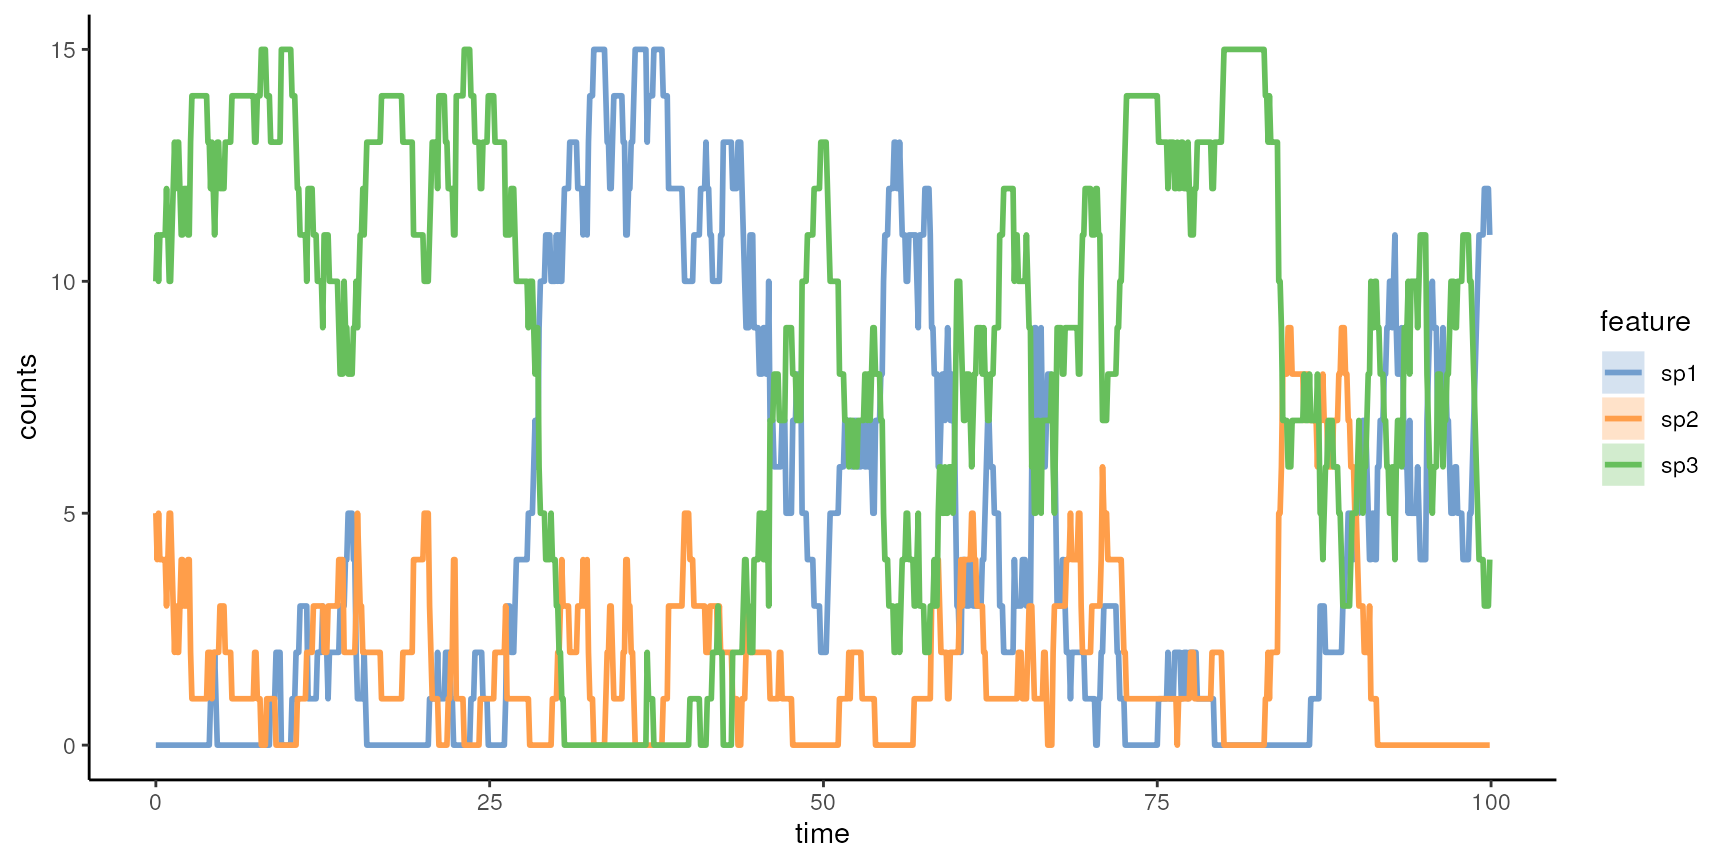
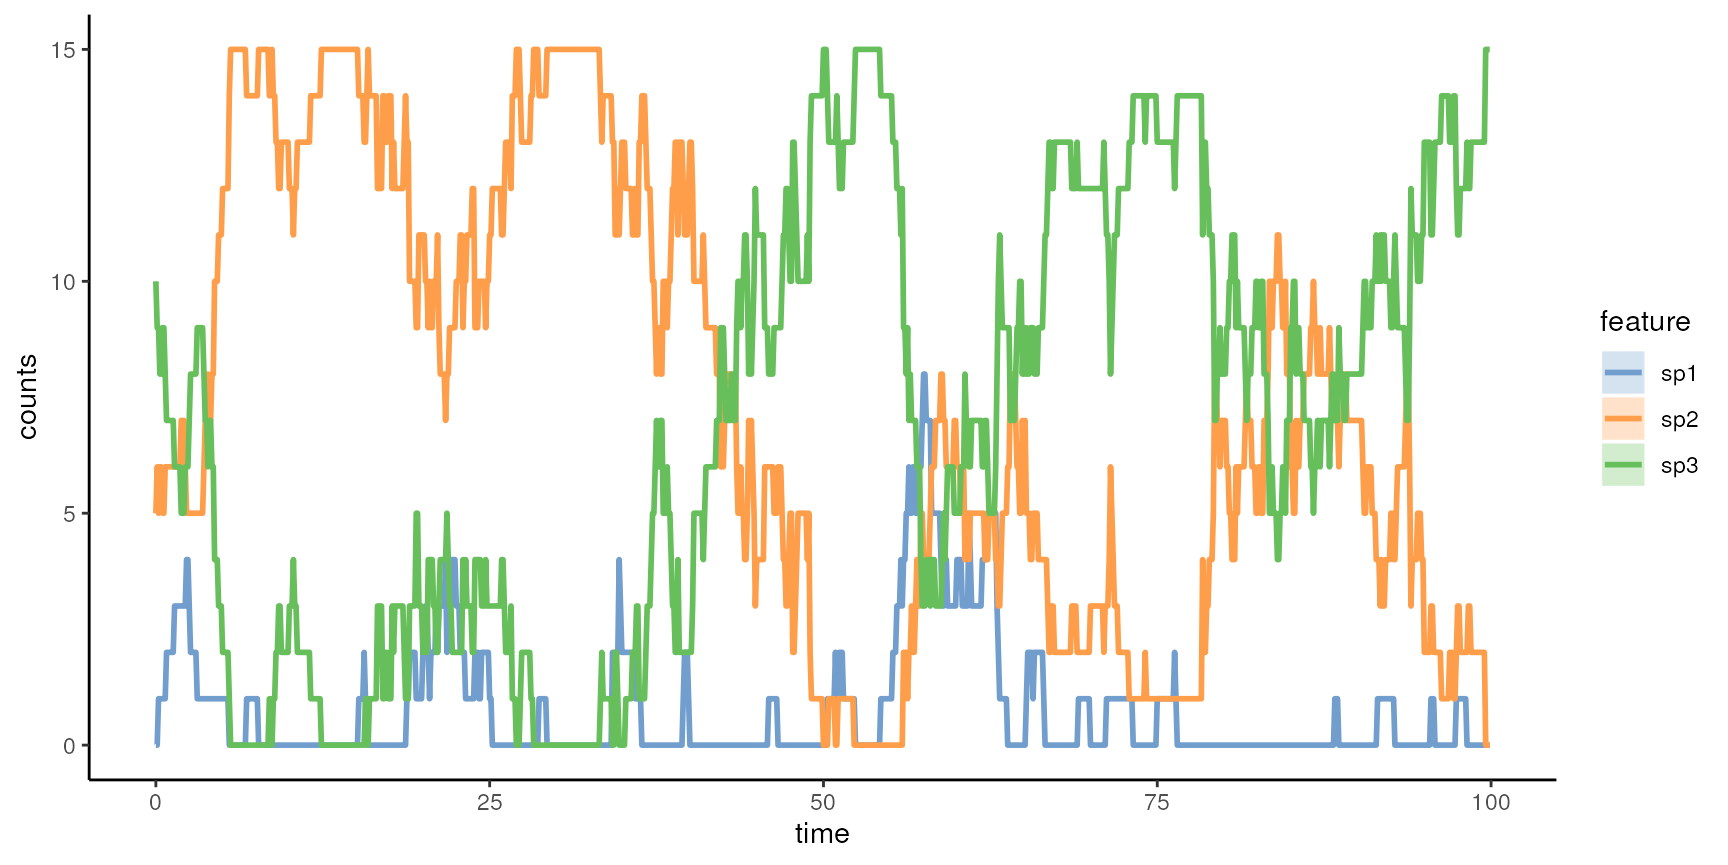
Built site for miaSim: 1.5.4@ab348aa

Changed region(s): [[0.0625, 0.0312, 0.875, 0.874]]

diff --git a/articles/caseStudy2-NutrientThreshold.html b/articles/caseStudy2-NutrientThreshold.html
@@ -88,7 +88,7 @@
                         <h4 data-toc-skip class="author">The miaSim
 package authors.</h4>
             
-            <h4 data-toc-skip class="date">2023-03-14</h4>
+            <h4 data-toc-skip class="date">2023-03-19</h4>
       
       <small class="dont-index">Source: <a href="https://github.com/microbiome/miaSim/blob/HEAD/vignettes/caseStudy2-NutrientThreshold.Rmd" class="external-link"><code>vignettes/caseStudy2-NutrientThreshold.Rmd</code></a></small>
       <div class="hidden name"><code>caseStudy2-NutrientThreshold.Rmd</code></div>
@@ -325,29 +325,29 @@ equivalents.</p>
 <span><span class="co">## In this step, the final relative abundance table is basisComposition_prop</span></span>
 <span></span>
 <span><span class="fu"><a href="https://rdrr.io/r/base/Random.html" class="external-link">set.seed</a></span><span class="op">(</span><span class="fl">42</span><span class="op">)</span></span>
-<span><span class="va">community.simulation</span> <span class="op">&lt;-</span> <span class="fu"><a href="https://rdrr.io/r/base/list.html" class="external-link">list</a></span><span class="op">(</span><span class="op">)</span></span>
-<span><span class="va">counter_i</span> <span class="op">&lt;-</span> <span class="fl">1</span></span>
 <span><span class="va">resourceConcentration</span> <span class="op">&lt;-</span> <span class="fl">10</span><span class="op">^</span><span class="fu"><a href="https://rdrr.io/r/base/seq.html" class="external-link">seq</a></span><span class="op">(</span><span class="fl">0</span>,<span class="fl">4</span>,<span class="fl">1</span><span class="op">)</span> <span class="co"># 1 to 10000</span></span>
 <span><span class="va">n.medium</span> <span class="op">&lt;-</span> <span class="fl">5</span></span>
-<span><span class="kw">for</span> <span class="op">(</span><span class="va">resConc</span> <span class="kw">in</span> <span class="va">resourceConcentration</span><span class="op">)</span> <span class="op">{</span></span>
-<span>    <span class="kw">for</span> <span class="op">(</span><span class="va">medium</span> <span class="kw">in</span> <span class="fu"><a href="https://rdrr.io/r/base/seq.html" class="external-link">seq_len</a></span><span class="op">(</span><span class="va">n.medium</span><span class="op">)</span><span class="op">)</span><span class="op">{</span></span>
+<span></span>
+<span><span class="co"># make use of parallel computing provided by package `foreach`</span></span>
+<span><span class="kw"><a href="https://rdrr.io/r/base/library.html" class="external-link">library</a></span><span class="op">(</span><span class="va"><a href="https://github.com/RevolutionAnalytics/foreach" class="external-link">foreach</a></span><span class="op">)</span></span>
+<span><span class="kw"><a href="https://rdrr.io/r/base/library.html" class="external-link">library</a></span><span class="op">(</span><span class="va"><a href="https://github.com/RevolutionAnalytics/doparallel" class="external-link">doParallel</a></span><span class="op">)</span></span>
+<span><span class="va">cl</span> <span class="op">&lt;-</span> <span class="fu">makeCluster</span><span class="op">(</span><span class="fu"><a href="https://rdrr.io/r/base/Extremes.html" class="external-link">max</a></span><span class="op">(</span><span class="fu">detectCores</span><span class="op">(</span><span class="op">)</span><span class="op">/</span><span class="fl">2</span>, <span class="fl">1</span><span class="op">)</span><span class="op">)</span></span>
+<span><span class="fu">registerDoParallel</span><span class="op">(</span><span class="va">cl</span><span class="op">)</span></span>
+<span><span class="va">basisComposition</span> <span class="op">&lt;-</span> <span class="fu">foreach</span><span class="op">(</span>resConc <span class="op">=</span> <span class="va">resourceConcentration</span>, .combine <span class="op">=</span> <span class="va">rbind</span><span class="op">)</span> <span class="op">%:%</span> </span>
+<span>    <span class="fu">foreach</span><span class="op">(</span>medium <span class="op">=</span> <span class="fu"><a href="https://rdrr.io/r/base/seq.html" class="external-link">seq_len</a></span><span class="op">(</span><span class="va">n.medium</span><span class="op">)</span>, .combine <span class="op">=</span> <span class="va">rbind</span>, .packages <span class="op">=</span> <span class="st">"miaSim"</span><span class="op">)</span> <span class="op">%dopar%</span> <span class="op">{</span></span>
 <span>        <span class="va">crm_params</span><span class="op">$</span><span class="va">resources</span> <span class="op">&lt;-</span> <span class="fu"><a href="https://rdrr.io/r/base/numeric.html" class="external-link">as.numeric</a></span><span class="op">(</span><span class="va">resource.initial.df</span><span class="op">[</span><span class="va">medium</span>,<span class="op">]</span><span class="op">*</span><span class="va">resConc</span><span class="op">)</span></span>
 <span>        <span class="va">paramx0</span> <span class="op">&lt;-</span> <span class="fu"><a href="https://rdrr.io/r/base/list.html" class="external-link">as.list</a></span><span class="op">(</span><span class="fu"><a href="https://rdrr.io/r/base/as.data.frame.html" class="external-link">as.data.frame</a></span><span class="op">(</span><span class="fu"><a href="https://rdrr.io/r/base/t.html" class="external-link">t</a></span><span class="op">(</span><span class="va">community.initial.df</span><span class="op">)</span><span class="op">)</span><span class="op">)</span></span>
 <span>        <span class="va">crm_param_iter</span> <span class="op">&lt;-</span> <span class="fu"><a href="https://rdrr.io/r/base/list.html" class="external-link">list</a></span><span class="op">(</span>x0 <span class="op">=</span> <span class="va">paramx0</span><span class="op">)</span></span>
 <span>        <span class="fu"><a href="https://rdrr.io/r/base/print.html" class="external-link">print</a></span><span class="op">(</span><span class="fu"><a href="https://rdrr.io/r/base/paste.html" class="external-link">paste</a></span><span class="op">(</span><span class="st">"resConc"</span>, <span class="va">resConc</span>, <span class="st">"medium"</span>, <span class="va">medium</span><span class="op">)</span><span class="op">)</span></span>
-<span>        <span class="va">crmMoments</span> <span class="op">&lt;-</span> <span class="fu">generateSimulations</span><span class="op">(</span>model <span class="op">=</span> <span class="st">"simulateConsumerResource"</span>,</span>
-<span>                                          params_list <span class="op">=</span> <span class="va">crm_params</span>,</span>
-<span>                                          param_iter <span class="op">=</span> <span class="va">crm_param_iter</span>,</span>
-<span>                                          n_instances <span class="op">=</span> <span class="va">n.instances</span>,</span>
-<span>                                          t_end <span class="op">=</span> <span class="fl">50</span><span class="op">)</span></span>
+<span>        <span class="va">crmMoments</span> <span class="op">&lt;-</span> <span class="fu"><a href="../reference/dot-generateSimulations.html">.generateSimulations</a></span><span class="op">(</span>model <span class="op">=</span> <span class="st">"simulateConsumerResource"</span>,</span>
+<span>                                           params_list <span class="op">=</span> <span class="va">crm_params</span>,</span>
+<span>                                           param_iter <span class="op">=</span> <span class="va">crm_param_iter</span>,</span>
+<span>                                           n_instances <span class="op">=</span> <span class="va">n.instances</span>,</span>
+<span>                                           t_end <span class="op">=</span> <span class="fl">50</span><span class="op">)</span></span>
 <span>        <span class="co"># pick community composition at the last time point       </span></span>
-<span>        <span class="va">community.simulation</span><span class="op">[[</span><span class="va">counter_i</span><span class="op">]</span><span class="op">]</span> <span class="op">&lt;-</span> <span class="fu"><a href="https://rdrr.io/r/base/as.data.frame.html" class="external-link">as.data.frame</a></span><span class="op">(</span><span class="fu"><a href="https://rdrr.io/r/base/do.call.html" class="external-link">do.call</a></span><span class="op">(</span><span class="va">rbind</span>, <span class="fu"><a href="https://rdrr.io/r/base/lapply.html" class="external-link">lapply</a></span><span class="op">(</span><span class="va">crmMoments</span>, <span class="kw">function</span> <span class="op">(</span><span class="va">x</span><span class="op">)</span> <span class="op">{</span><span class="fu"><a href="https://rdrr.io/pkg/SummarizedExperiment/man/SummarizedExperiment-class.html" class="external-link">assay</a></span><span class="op">(</span><span class="va">x</span>, <span class="st">"counts"</span><span class="op">)</span><span class="op">[</span>, <span class="fu"><a href="https://rdrr.io/r/base/nrow.html" class="external-link">ncol</a></span><span class="op">(</span><span class="va">x</span><span class="op">)</span><span class="op">]</span><span class="op">}</span><span class="op">)</span><span class="op">)</span><span class="op">)</span></span>
-<span></span>
-<span>        <span class="va">counter_i</span> <span class="op">&lt;-</span> <span class="va">counter_i</span> <span class="op">+</span> <span class="fl">1</span></span>
+<span>        <span class="fu"><a href="https://rdrr.io/r/base/as.data.frame.html" class="external-link">as.data.frame</a></span><span class="op">(</span><span class="fu"><a href="https://rdrr.io/r/base/do.call.html" class="external-link">do.call</a></span><span class="op">(</span><span class="va">rbind</span>, <span class="fu"><a href="https://rdrr.io/r/base/lapply.html" class="external-link">lapply</a></span><span class="op">(</span><span class="va">crmMoments</span>, <span class="kw">function</span> <span class="op">(</span><span class="va">x</span><span class="op">)</span> <span class="op">{</span><span class="fu"><a href="https://rdrr.io/pkg/SummarizedExperiment/man/SummarizedExperiment-class.html" class="external-link">assay</a></span><span class="op">(</span><span class="va">x</span>, <span class="st">"counts"</span><span class="op">)</span><span class="op">[</span>, <span class="fu"><a href="https://rdrr.io/r/base/nrow.html" class="external-link">ncol</a></span><span class="op">(</span><span class="va">x</span><span class="op">)</span><span class="op">]</span><span class="op">}</span><span class="op">)</span><span class="op">)</span><span class="op">)</span></span>
 <span>    <span class="op">}</span></span>
-<span><span class="op">}</span></span>
-<span><span class="va">basisComposition</span> <span class="op">&lt;-</span> <span class="fu"><a href="https://rdrr.io/r/base/do.call.html" class="external-link">do.call</a></span><span class="op">(</span><span class="va">rbind.data.frame</span>, <span class="va">community.simulation</span><span class="op">)</span></span>
-<span><span class="fu"><a href="https://rdrr.io/r/base/rm.html" class="external-link">rm</a></span><span class="op">(</span><span class="va">counter_i</span>, <span class="va">community.simulation</span><span class="op">)</span></span>
+<span><span class="fu">stopCluster</span><span class="op">(</span><span class="va">cl</span><span class="op">)</span></span>
 <span><span class="va">basisComposition_prop</span> <span class="op">&lt;-</span> <span class="va">basisComposition</span> <span class="op">/</span> <span class="fu"><a href="https://rdrr.io/r/base/colSums.html" class="external-link">rowSums</a></span><span class="op">(</span><span class="va">basisComposition</span><span class="op">)</span></span>
 <span></span>
 <span></span>

diff --git a/articles/miaSim.html b/articles/miaSim.html
@@ -89,7 +89,7 @@ simulations</h1>
                         <h4 data-toc-skip class="author">miaSim
 authors</h4>
             
-            <h4 data-toc-skip class="date">2023-03-14</h4>
+            <h4 data-toc-skip class="date">2023-03-19</h4>
       
       <small class="dont-index">Source: <a href="https://github.com/microbiome/miaSim/blob/HEAD/vignettes/miaSim.Rmd" class="external-link"><code>vignettes/miaSim.Rmd</code></a></small>
       <div class="hidden name"><code>miaSim.Rmd</code></div>
@@ -327,13 +327,13 @@ microbiome analysis package listing</a> by Sudarshan Shetty</p></li>
 </h2>
 <div class="sourceCode" id="cb14"><pre class="downlit sourceCode r">
 <code class="sourceCode R"><span><span class="fu"><a href="https://rdrr.io/r/utils/sessionInfo.html" class="external-link">sessionInfo</a></span><span class="op">(</span><span class="op">)</span></span></code></pre></div>
-<pre><code><span><span class="co">## R Under development (unstable) (2023-03-09 r83957)</span></span>
+<pre><code><span><span class="co">## R Under development (unstable) (2023-03-16 r83996)</span></span>
 <span><span class="co">## Platform: x86_64-pc-linux-gnu (64-bit)</span></span>
 <span><span class="co">## Running under: Ubuntu 22.04.2 LTS</span></span>
 <span><span class="co">## </span></span>
 <span><span class="co">## Matrix products: default</span></span>
 <span><span class="co">## BLAS:   /usr/lib/x86_64-linux-gnu/openblas-pthread/libblas.so.3 </span></span>
-<span><span class="co">## LAPACK: /usr/lib/x86_64-linux-gnu/openblas-pthread/libopenblasp-r0.3.20.so;  LAPACK version 3.10.0</span></span>
+<span><span class="co">## </span></span>
 <span><span class="co">## </span></span>
 <span><span class="co">## locale:</span></span>
 <span><span class="co">##  [1] LC_CTYPE=en_US.UTF-8       LC_NUMERIC=C              </span></span>
@@ -353,10 +353,10 @@ microbiome analysis package listing</a> by Sudarshan Shetty</p></li>
 <span><span class="co">## other attached packages:</span></span>
 <span><span class="co">##  [1] miaSim_1.5.4                   TreeSummarizedExperiment_2.1.4</span></span>
 <span><span class="co">##  [3] Biostrings_2.67.0              XVector_0.39.0                </span></span>
-<span><span class="co">##  [5] SingleCellExperiment_1.21.0    SummarizedExperiment_1.29.1   </span></span>
+<span><span class="co">##  [5] SingleCellExperiment_1.21.1    SummarizedExperiment_1.29.1   </span></span>
 <span><span class="co">##  [7] Biobase_2.59.0                 GenomicRanges_1.51.4          </span></span>
-<span><span class="co">##  [9] GenomeInfoDb_1.35.15           IRanges_2.33.0                </span></span>
-<span><span class="co">## [11] S4Vectors_0.37.4               BiocGenerics_0.45.0           </span></span>
+<span><span class="co">##  [9] GenomeInfoDb_1.35.16           IRanges_2.33.0                </span></span>
+<span><span class="co">## [11] S4Vectors_0.37.4               BiocGenerics_0.45.2           </span></span>
 <span><span class="co">## [13] MatrixGenerics_1.11.0          matrixStats_0.63.0            </span></span>
 <span><span class="co">## [15] BiocStyle_2.27.1              </span></span>
 <span><span class="co">## </span></span>
@@ -365,7 +365,7 @@ microbiome analysis package listing</a> by Sudarshan Shetty</p></li>
 <span><span class="co">##   [3] magrittr_2.0.3              ggbeeswarm_0.7.1           </span></span>
 <span><span class="co">##   [5] farver_2.1.1                rmarkdown_2.20             </span></span>
 <span><span class="co">##   [7] fs_1.6.1                    zlibbioc_1.45.0            </span></span>
-<span><span class="co">##   [9] ragg_1.2.5                  vctrs_0.5.2                </span></span>
+<span><span class="co">##   [9] ragg_1.2.5                  vctrs_0.6.0                </span></span>
 <span><span class="co">##  [11] memoise_2.0.1               DelayedMatrixStats_1.21.0  </span></span>
 <span><span class="co">##  [13] RCurl_1.98-1.10             ggtree_3.7.1               </span></span>
 <span><span class="co">##  [15] htmltools_0.5.4             BiocNeighbors_1.17.1       </span></span>
@@ -387,7 +387,7 @@ microbiome analysis package listing</a> by Sudarshan Shetty</p></li>
 <span><span class="co">##  [47] fansi_1.0.4                 polyclip_1.10-4            </span></span>
 <span><span class="co">##  [49] mgcv_1.8-42                 compiler_4.3.0             </span></span>
 <span><span class="co">##  [51] bit64_4.0.5                 withr_2.5.0                </span></span>
-<span><span class="co">##  [53] BiocParallel_1.33.9         viridis_0.6.2              </span></span>
+<span><span class="co">##  [53] BiocParallel_1.33.10        viridis_0.6.2              </span></span>
 <span><span class="co">##  [55] DBI_1.1.3                   highr_0.10                 </span></span>
 <span><span class="co">##  [57] ggforce_0.4.1               MASS_7.3-58.3              </span></span>
 <span><span class="co">##  [59] poweRlaw_0.70.6             DelayedArray_0.25.0        </span></span>
@@ -397,7 +397,7 @@ microbiome analysis package listing</a> by Sudarshan Shetty</p></li>
 <span><span class="co">##  [67] nlme_3.1-162                grid_4.3.0                 </span></span>
 <span><span class="co">##  [69] mia_1.7.9                   cluster_2.1.4              </span></span>
 <span><span class="co">##  [71] reshape2_1.4.4              generics_0.1.3             </span></span>
-<span><span class="co">##  [73] gtable_0.3.1                tidyr_1.3.0                </span></span>
+<span><span class="co">##  [73] gtable_0.3.2                tidyr_1.3.0                </span></span>
 <span><span class="co">##  [75] BiocSingular_1.15.0         tidygraph_1.2.3            </span></span>
 <span><span class="co">##  [77] ScaledMatrix_1.7.0          utf8_1.2.3                 </span></span>
 <span><span class="co">##  [79] ggrepel_0.9.3               pillar_1.8.1               </span></span>
@@ -418,7 +418,7 @@ microbiome analysis package listing</a> by Sudarshan Shetty</p></li>
 <span><span class="co">## [109] systemfonts_1.0.4           munsell_0.5.0              </span></span>
 <span><span class="co">## [111] jquerylib_0.1.4             Rcpp_1.0.10                </span></span>
 <span><span class="co">## [113] parallel_4.3.0              pkgdown_2.0.7              </span></span>
-<span><span class="co">## [115] ggplot2_3.4.1               blob_1.2.3                 </span></span>
+<span><span class="co">## [115] ggplot2_3.4.1               blob_1.2.4                 </span></span>
 <span><span class="co">## [117] sparseMatrixStats_1.11.1    bitops_1.0-7               </span></span>
 <span><span class="co">## [119] decontam_1.19.0             viridisLite_0.4.1          </span></span>
 <span><span class="co">## [121] tidytree_0.4.2              scales_1.2.1               </span></span>

diff --git a/articles/caseStudy3-EnvironmentalComplexity.html b/articles/caseStudy3-EnvironmentalComplexity.html
@@ -88,7 +88,7 @@
                         <h4 data-toc-skip class="author">The miaSim
 package authors.</h4>
             
-            <h4 data-toc-skip class="date">2023-03-14</h4>
+            <h4 data-toc-skip class="date">2023-03-19</h4>
       
       <small class="dont-index">Source: <a href="https://github.com/microbiome/miaSim/blob/HEAD/vignettes/caseStudy3-EnvironmentalComplexity.Rmd" class="external-link"><code>vignettes/caseStudy3-EnvironmentalComplexity.Rmd</code></a></small>
       <div class="hidden name"><code>caseStudy3-EnvironmentalComplexity.Rmd</code></div>

diff --git a/articles/caseStudy1-SIS.html b/articles/caseStudy1-SIS.html
@@ -88,7 +88,7 @@
                         <h4 data-toc-skip class="author">The miaSim
 package authors.</h4>
             
-            <h4 data-toc-skip class="date">2023-03-14</h4>
+            <h4 data-toc-skip class="date">2023-03-19</h4>
       
       <small class="dont-index">Source: <a href="https://github.com/microbiome/miaSim/blob/HEAD/vignettes/caseStudy1-SIS.Rmd" class="external-link"><code>vignettes/caseStudy1-SIS.Rmd</code></a></small>
       <div class="hidden name"><code>caseStudy1-SIS.Rmd</code></div>
